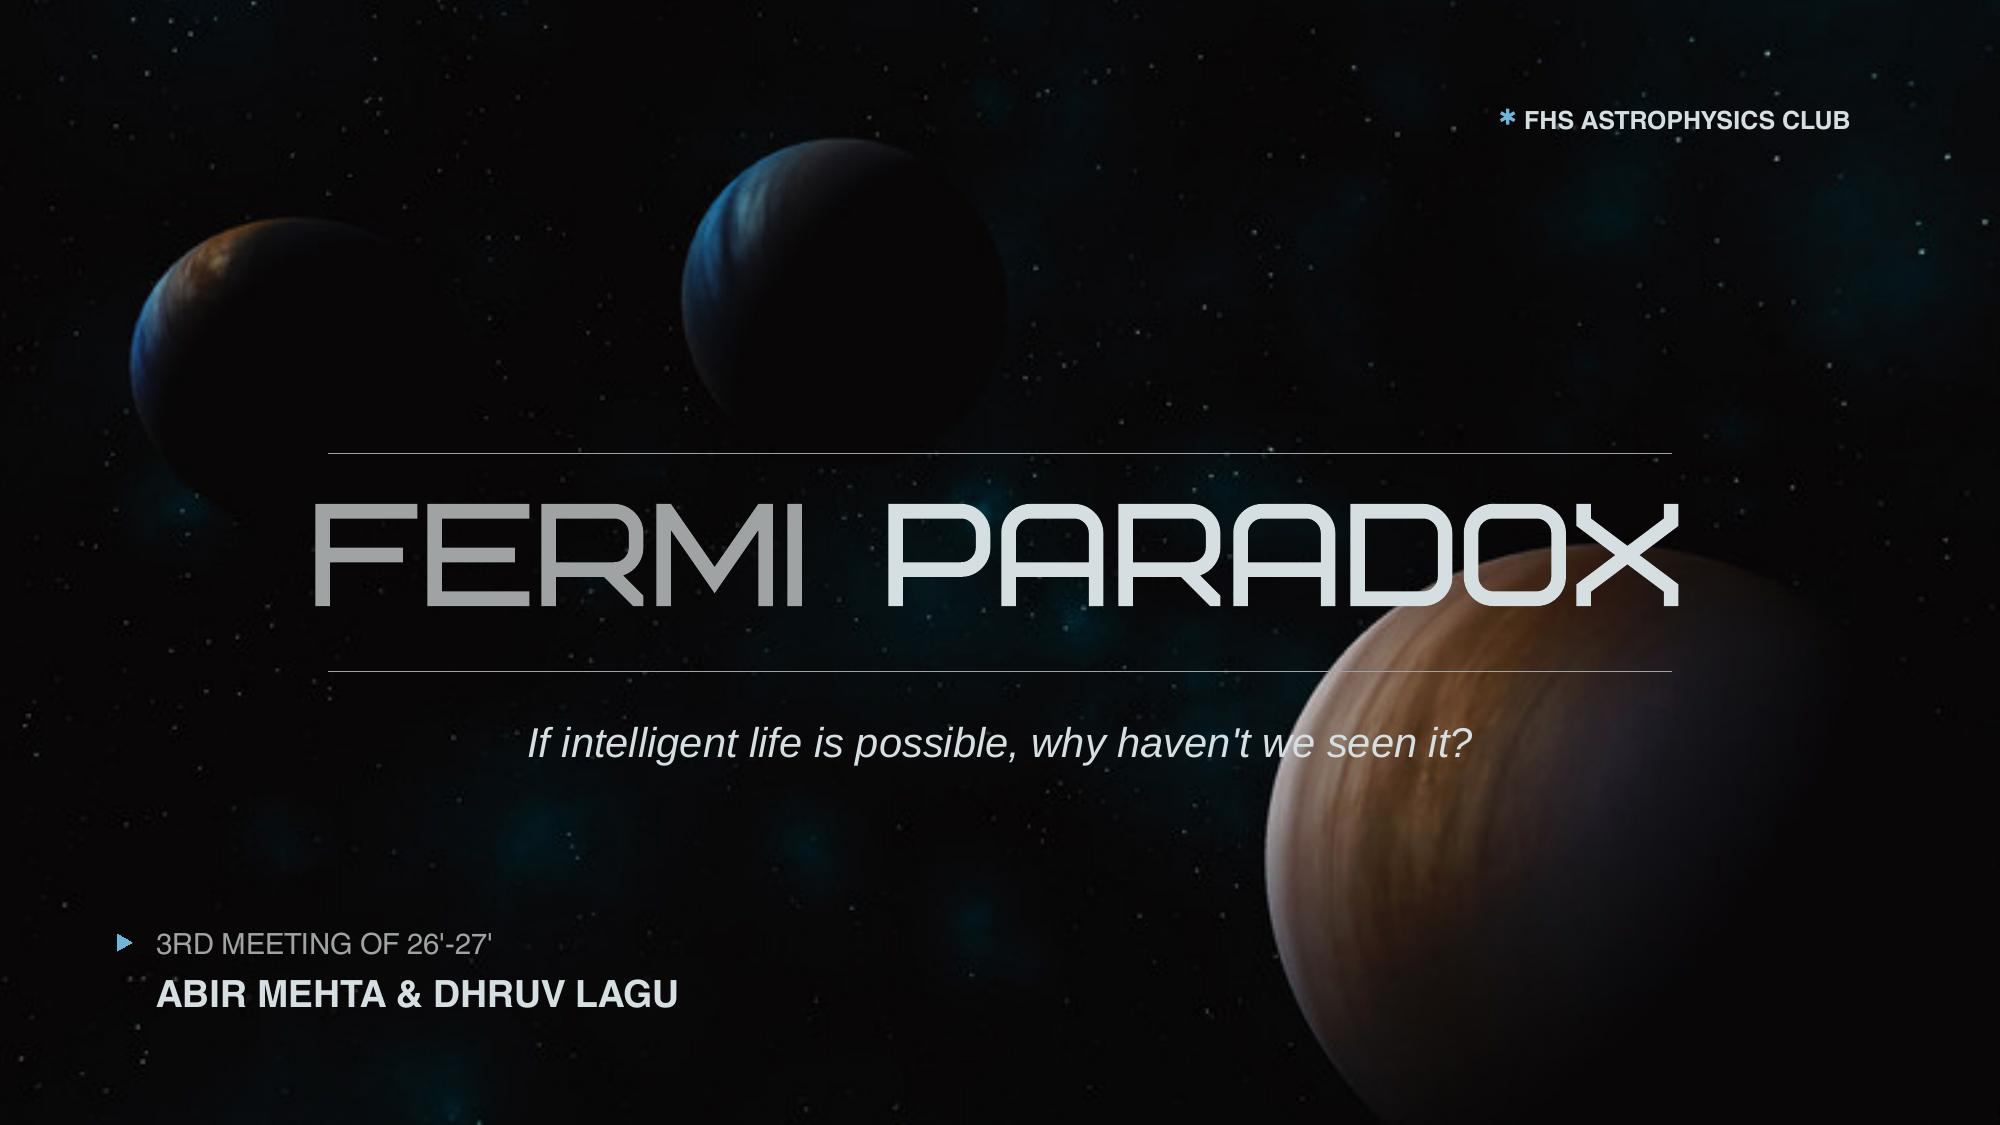
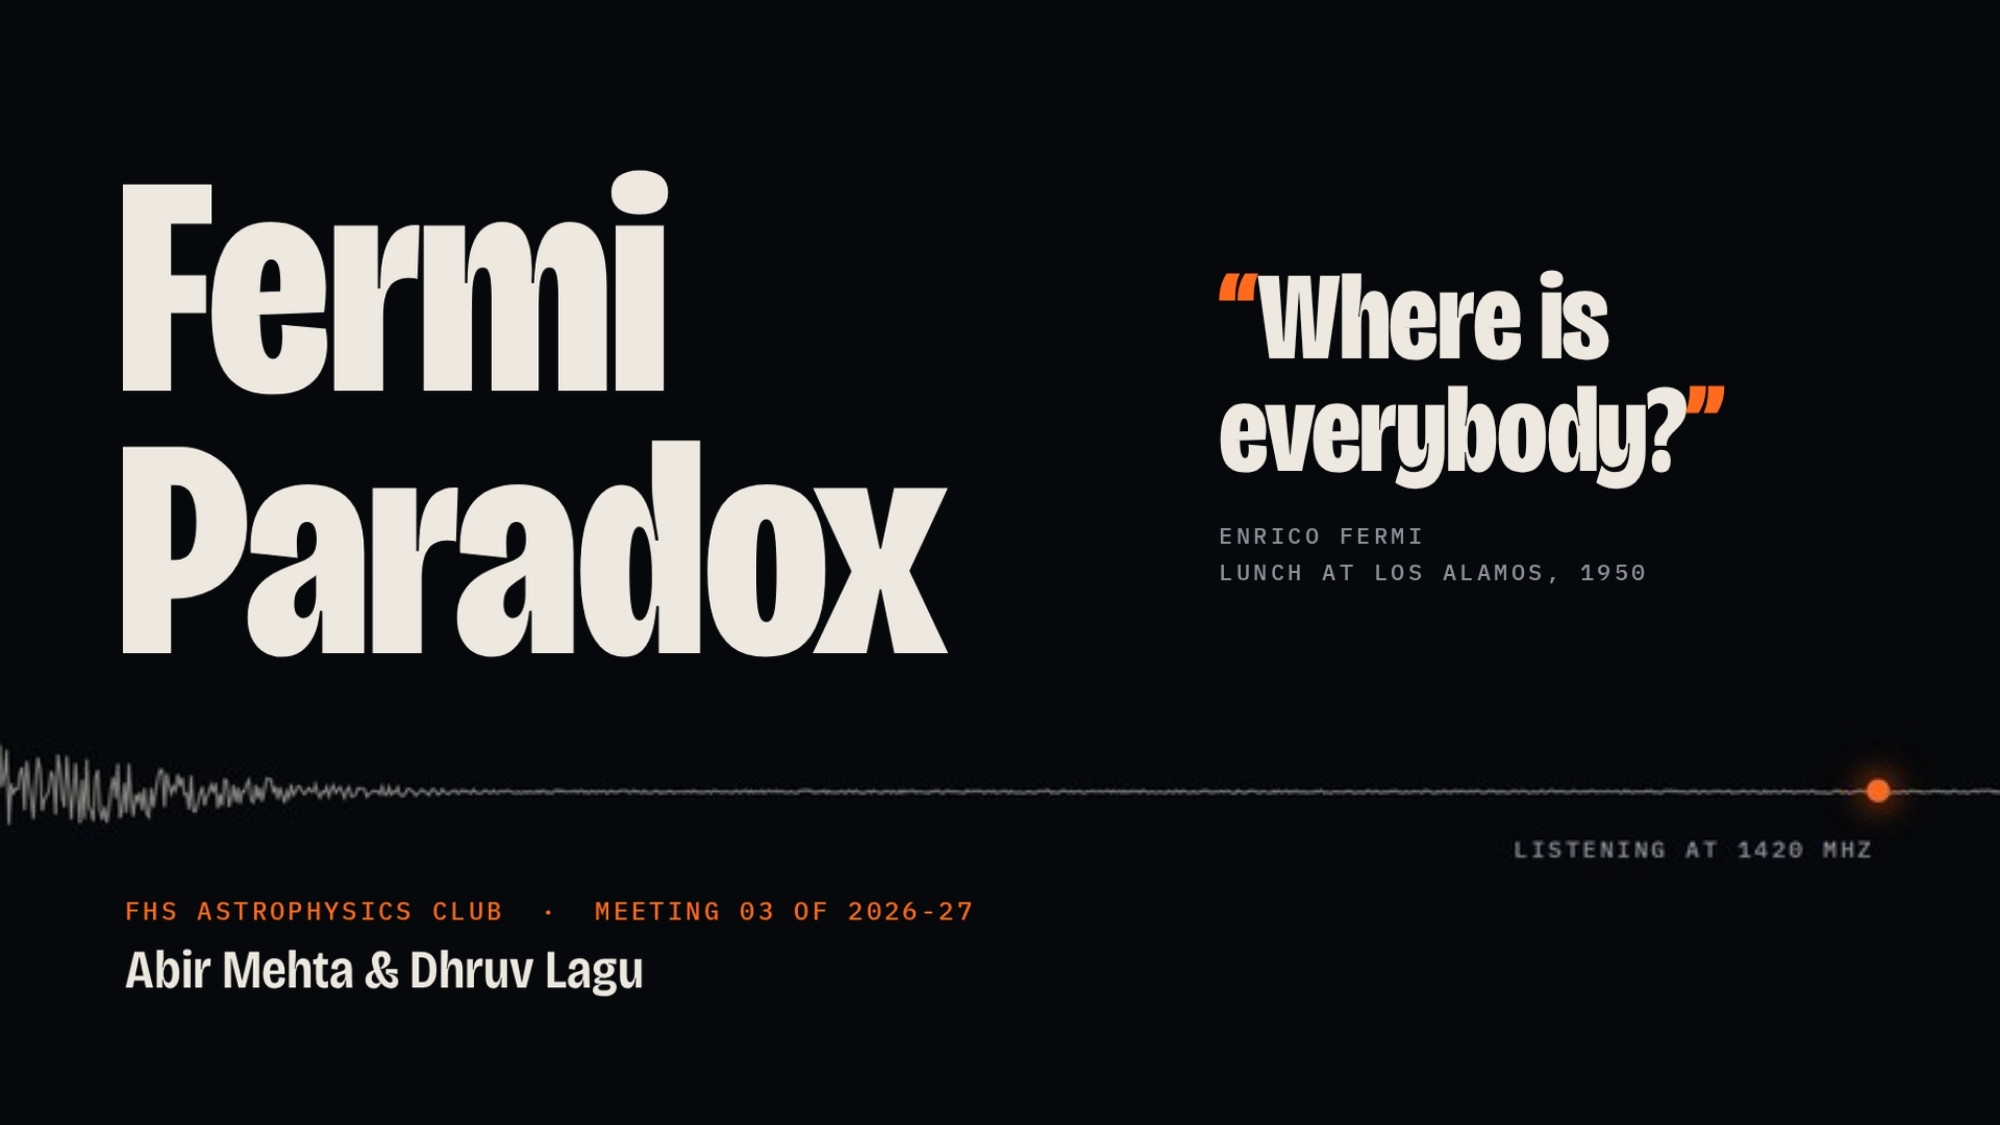
Meeting 3 entry with redesigned deck link and cover; countdown to Oct 21; remove Saanvi Doshi from the site
Claude-Session: https://claude.ai/code/session_011eyEhuT5BmGKgKKVyxNUqa

diff --git a/app.js b/app.js
@@ -119,7 +119,7 @@
       summary: "A guest talk and Q&A with Dr. Seth Shostak, Senior Astronomer at the SETI Institute, on the search for extraterrestrial intelligence. How SETI listens for signals, the Drake equation, the Fermi paradox, and why he is betting we will find life within decades.",
       topics: ["SETI", "Drake Equation", "Fermi Paradox", "Guest Q&A"] },
     { n: 16, disp: "3", yr: "26", kind: "Lecture", short: "The Fermi Paradox", title: "The Fermi Paradox",
-      slides: "", deckUrl: "https://www.canva.com/design/DAHW5xhK7WA/pARQjdP0aob9_VlWaEstUA/view?embed", notes: [24],
+      slides: "", deckUrl: "https://www.canva.com/design/DAHXF5xio1o/KlsxOGQwIrWpS5J8WxpikQ/view?embed", notes: [24],
       summary: "If intelligent life is possible, why haven't we seen it? Colonies that launch more colonies could fill the galaxy many times over, so we weigh the ways out: how uncertain the Drake equation really is, the chance that we are alone, and the Great Filter.",
       topics: ["Fermi Paradox", "Colony Growth", "Drake Equation", "Great Filter"] },
   ];
@@ -129,8 +129,6 @@
       bio: "Founded the Astrophysics Club with Dhruv in September 2025, developing the core curriculum and overall strategies for club success. Abir designs the typeset notes and handouts for biweekly meetings, and manages communication and outreach to recruit new members. Outside the club, he is a dedicated physics enthusiast who devotes most of his time to the broader field, having completed a wide range of advanced physics and math courses alongside working on a variety of personal projects. Feel free to message him with any inquiries." },
     { name: "Dhruv Lagu",   role: "Co-Founder & Vice President",  photo: "assets/dhruv.jpeg", email: "dlagu234@student.fuhsd.org",
       bio: "Develops lecture curriculum with Abir. Leads the club's data and Python side, including TESS light curves, Colab notebooks, and model evaluation, and developed the ML-based exoplanet detection curriculum used in club sessions. Outside the club, Dhruv is an aerospace enthusiast, the VP of Design & Strategy for FHS Robotics, and the developer of Orbital Watch, a website tracking the orbital debris crisis." },
-    { name: "Saanvi Doshi", role: "Social Media & Outreach Lead", photo: "assets/saanvi.jpeg", email: "sdoshi468@student.fuhsd.org",
-      bio: "Joined the Astrophysics Club in April of 2026. Runs the club's Instagram and other socials, as well as running fundraisers and keeping the club connected with Fremont's ASB (Associated Student Body). Outside the club, Saanvi is interested in lab research and is involved in FHS Science Olympiad, as well as various other leadership roles on campus." },
   ];
 
   const ROUTES = ["/", "/about", "/meetings", "/notes", "/atlas", "/events", "/team", "/faq", "/join"];

diff --git a/index.html b/index.html
@@ -22,7 +22,7 @@
                 eyebrow): a well-proportioned editorial gothic at a medium weight
                 (500) — an intentional label cut next to Bricolage. (No monospace.) -->
 <link href="https://fonts.googleapis.com/css2?family=Bricolage+Grotesque:opsz,wght@12..96,200..800&family=Libre+Franklin:wght@400;500;600&display=swap" rel="stylesheet" />
-<link rel="stylesheet" href="styles.css?v=18" />
+<link rel="stylesheet" href="styles.css?v=19" />
 </head>
 <body>
 <a class="skip-link" href="#/">Skip to content</a>
@@ -395,14 +395,14 @@
              than "12:55 wherever you happen to be". To roll the card to the next
              session, change this attribute plus the visible strings below; the WHEN
              row states the recurring cadence, so it stays put. -->
-        <div class="nextmeet reveal" id="nextMeeting" data-when="2026-10-07T12:55:00-07:00" style="--i:1">
+        <div class="nextmeet reveal" id="nextMeeting" data-when="2026-10-21T12:55:00-07:00" style="--i:1">
           <div class="nextmeet__top">
             <span class="nextmeet__k">§ Next meeting</span>
           </div>
 
-          <p class="nextmeet__topic">Astrophysics Club 3rd Meeting</p>
+          <p class="nextmeet__topic">Astrophysics Club 4th Meeting</p>
           <p class="nextmeet__when">
-            <time datetime="2026-10-07T12:55:00-07:00">Wednesday, October 7 · 12:55 PM</time>
+            <time datetime="2026-10-21T12:55:00-07:00">Wednesday, October 21 · 12:55 PM</time>
           </p>
 
           <!-- aria-hidden: the <time> above already states the meeting for assistive
@@ -442,7 +442,6 @@
           <ul class="joincard__officers">
             <li><a href="#/team" data-route="/team"><span class="jo__name">Abir Mehta</span><span class="jo__role">Co-Founder &amp; President</span><span class="jo__mail">amehta251@student.fuhsd.org</span></a></li>
             <li><a href="#/team" data-route="/team"><span class="jo__name">Dhruv Lagu</span><span class="jo__role">Co-Founder &amp; Vice President</span><span class="jo__mail">dlagu234@student.fuhsd.org</span></a></li>
-            <li><a href="#/team" data-route="/team"><span class="jo__name">Saanvi Doshi</span><span class="jo__role">Social Media &amp; Outreach Lead</span><span class="jo__mail">sdoshi468@student.fuhsd.org</span></a></li>
           </ul>
 
           <div class="joincard__social">
@@ -669,6 +668,6 @@
   </div>
 </footer>
 
-<script src="app.js?v=32"></script>
+<script src="app.js?v=33"></script>
 </body>
 </html>

diff --git a/styles.css b/styles.css
@@ -969,7 +969,7 @@ body.intro .nav{ animation: heroNav .5s 1.5s var(--ease-out) both; }
 /* =====================================================================
    TEAM — polished grid
    ===================================================================== */
-.team-grid{ display:grid; grid-template-columns:repeat(3, 1fr); gap:1.6rem; margin-bottom:5rem; }
+.team-grid{ display:grid; grid-template-columns:repeat(2, 1fr); gap:1.6rem; margin-bottom:5rem; max-width:52rem; }
 /* Gradient carried the card WITH a blur behind it; without one it needs to be
    opaque enough to hold its own over the starfield. */
 .tcard{ position:relative; display:flex; flex-direction:column; border:1px solid var(--glass-brd); border-radius:18px; overflow:hidden; background:linear-gradient(180deg, rgba(20,32,60,.74), rgba(9,14,30,.86)); transition:transform .35s var(--ease-out), border-color .35s var(--ease), box-shadow .4s var(--ease); contain:layout paint; }

diff --git a/CLAUDE_CODE_HANDOFF.md b/CLAUDE_CODE_HANDOFF.md
@@ -182,10 +182,9 @@ description ending in a sentence. Change that last sentence to exactly:
 ### 3.12 ✅ "Reach us" box — list each officer's contact, Abir first
 The Join page "Reach us" card previously showed only the club email + a generic note. Abir
 wanted **each officer's contact listed, with his name first**. It now shows the club email
-plus three officer rows (name, role, email), in order **Abir Mehta (Co-Founder & President),
-Dhruv Lagu (Co-Founder & Vice President), Saanvi Doshi (Social Media & Outreach Lead)**.
-Emails: `amehta251@student.fuhsd.org`, `dlagu234@student.fuhsd.org`,
-`sdoshi468@student.fuhsd.org`. Verify order and that emails render in the SANS font (3.1).
+plus two officer rows (name, role, email), in order **Abir Mehta (Co-Founder & President),
+Dhruv Lagu (Co-Founder & Vice President)**.
+Emails: `amehta251@student.fuhsd.org`, `dlagu234@student.fuhsd.org`. Verify order and that emails render in the SANS font (3.1).
 
 ### 3.13 ✅ Remove all em dashes ("—")
 Abir: remove em dashes, *especially* in the "Reach us" box copy. Done in the visible copy
